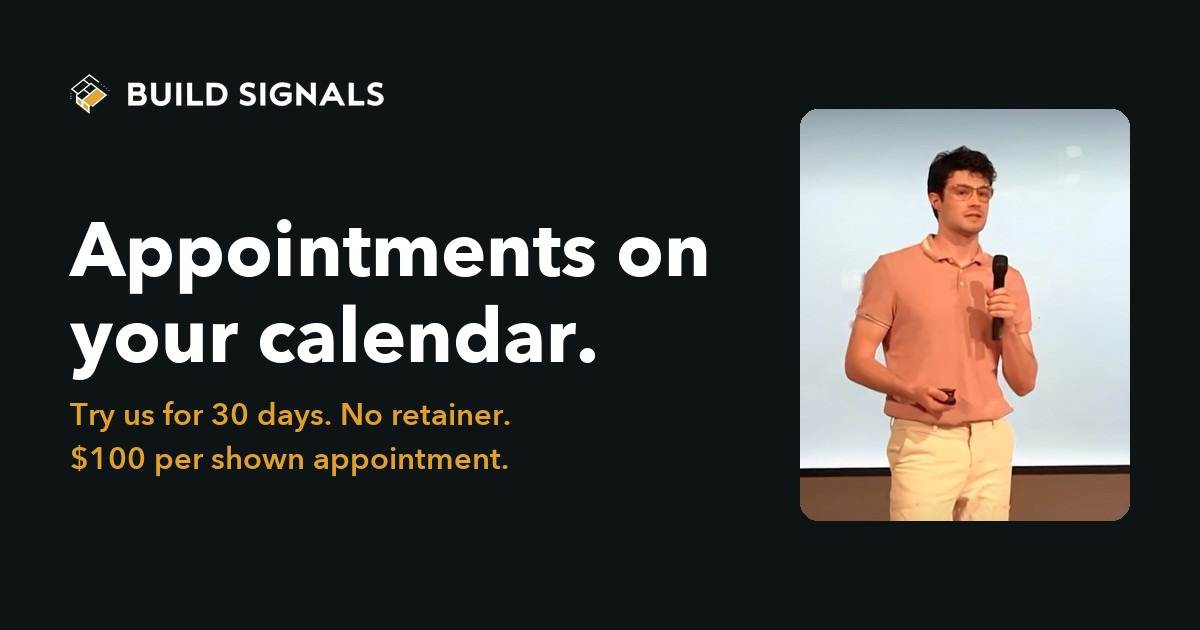
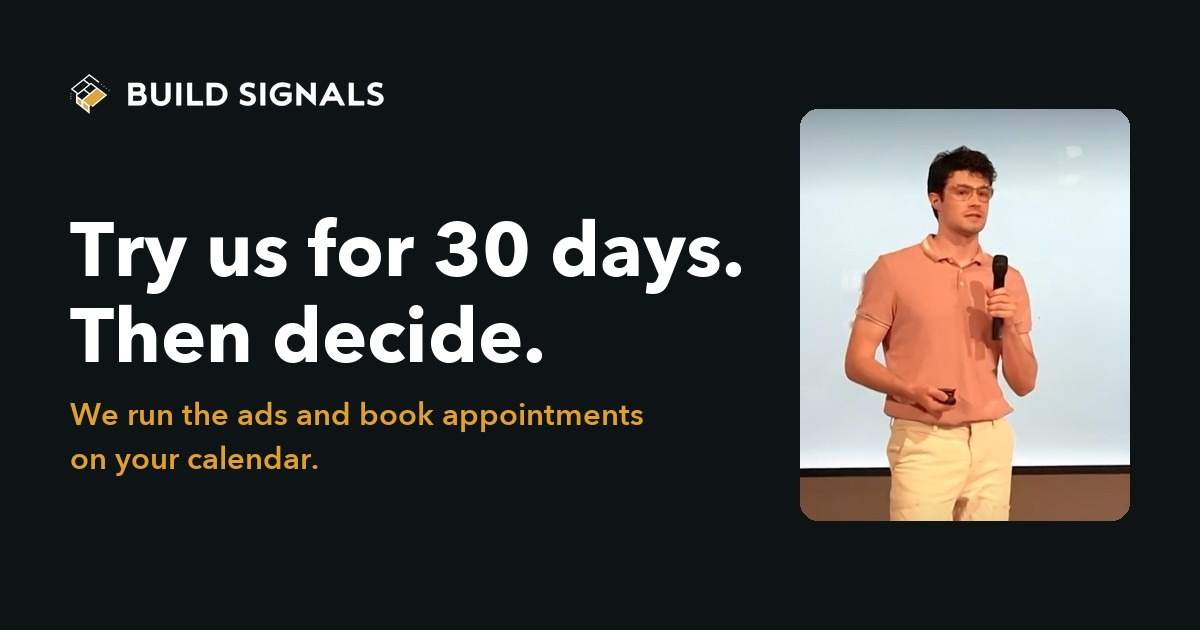
Homepage headline back to the trial style: "Try us for 30 days. Then decide." (Leo, Nov 25)
Leo: the offer-heavy headline didn't make people ask what we do. Same structure as the
Nov 23 "Try us free for 2 weeks" hero, 30 days, no "free" (they pay per shown appointment
during the trial). Share image and meta tags match.

Changed region(s): [[0.0617, 0.3317, 0.6167, 0.6032], [0.0617, 0.6333, 0.555, 0.754]]

diff --git a/index.html b/index.html
@@ -6,7 +6,7 @@
 
 <!-- ====================== SEO ====================== -->
 <title>Build Signals: Appointments &amp; Leads for Contractors</title>
-<meta name="description" content="We run the ads, call every lead in under 5 minutes and book appointments on your calendar. Try us for 30 days with no retainer: $100 per shown appointment.">
+<meta name="description" content="We run the ads, call every lead in under 5 minutes and book appointments on your calendar. Try us for 30 days, then decide. No retainer during the trial.">
 <meta name="robots" content="index, follow, max-image-preview:large, max-snippet:-1, max-video-preview:-1">
 <meta name="author" content="Leo Melaye">
 <link rel="canonical" href="https://buildsignals.com/">
@@ -15,17 +15,17 @@
 <meta property="og:type" content="website">
 <meta property="og:site_name" content="Build Signals">
 <meta property="og:url" content="https://buildsignals.com/">
-<meta property="og:title" content="Appointments on Your Calendar. 30 Days, No Retainer | BuildSignals">
-<meta property="og:description" content="We run the ads, call every lead in under 5 minutes and book appointments on your calendar. $100 per shown appointment, and no retainer for your first 30 days.">
+<meta property="og:title" content="Appointments on Your Calendar. Try Us for 30 Days | BuildSignals">
+<meta property="og:description" content="We run the ads, call every lead in under 5 minutes and book appointments on your calendar. Try us for 30 days, then decide.">
 <meta property="og:image" content="https://buildsignals.com/og-image.jpg">
 <meta property="og:image:width" content="1200">
 <meta property="og:image:height" content="630">
-<meta property="og:image:alt" content="BuildSignals: appointments on your calendar. Try us for 30 days with no retainer.">
+<meta property="og:image:alt" content="BuildSignals: try us for 30 days, then decide. Appointments booked on your calendar.">
 
 <!-- Twitter -->
 <meta name="twitter:card" content="summary_large_image">
-<meta name="twitter:title" content="Appointments on Your Calendar. 30 Days, No Retainer | BuildSignals">
-<meta name="twitter:description" content="We run the ads, call every lead in under 5 minutes and book appointments on your calendar. $100 per shown appointment, and no retainer for your first 30 days.">
+<meta name="twitter:title" content="Appointments on Your Calendar. Try Us for 30 Days | BuildSignals">
+<meta name="twitter:description" content="We run the ads, call every lead in under 5 minutes and book appointments on your calendar. Try us for 30 days, then decide.">
 <meta name="twitter:image" content="https://buildsignals.com/og-image.jpg">
 
 <!-- Favicon -->
@@ -47,7 +47,7 @@
       "logo": "https://buildsignals.com/buildsignals.png",
       "image": "https://buildsignals.com/og-image.jpg",
       "description": "BuildSignals books in-home appointments for contractors and home improvement companies in the United States. BuildSignals runs Facebook and Instagram ads in the contractor's own ad account, calls every lead in under 5 minutes and books appointments on the contractor's calendar. Clients try it for 30 days with no retainer and pay $100 per shown appointment; after 30 days it is $1,000 a month plus $100 per shown appointment. No long-term contracts.",
-      "slogan": "Try us for 30 days. No retainer. $100 per shown appointment.",
+      "slogan": "Try us for 30 days. Then decide.",
       "founder": { "@id": "https://buildsignals.com/#founder" },
       "areaServed": { "@type": "Country", "name": "United States" },
       "audience": { "@type": "BusinessAudience", "audienceType": "Contractors and home improvement companies" },
@@ -345,7 +345,7 @@ y=l.getElementsByTagName(r)[0];y.parentNode.insertBefore(t,y);})(window, documen
     <div class="container hero-grid">
       <div>
         <p class="eyebrow">For contractors and home improvement companies</p>
-        <h1>Try us for 30 days. No retainer. <span class="then">$100 per shown appointment. $1 to get started.</span></h1>
+        <h1>Try us for 30 days. <span class="then">Then decide.</span></h1>
         <p class="lede">We run the ads, call every lead in under 5 minutes and book appointments on your calendar, with every decision-maker home.</p>
         <div class="ctas">
           <a href="#book" class="btn">Book a call</a>
